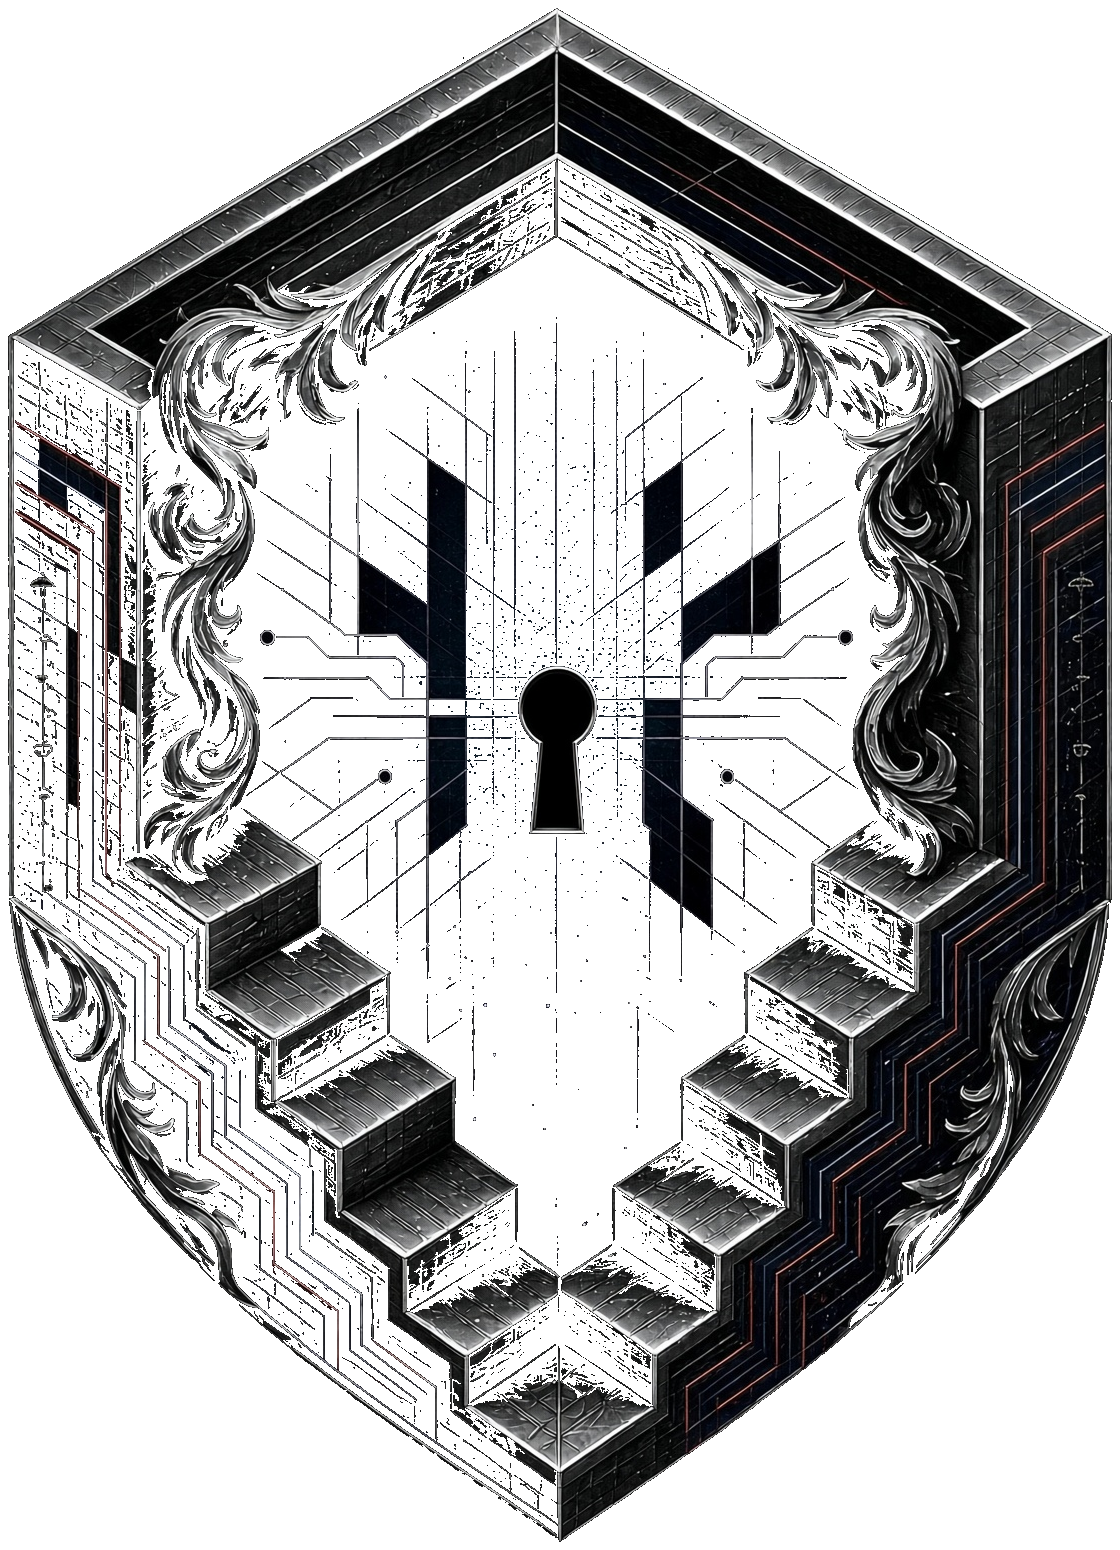
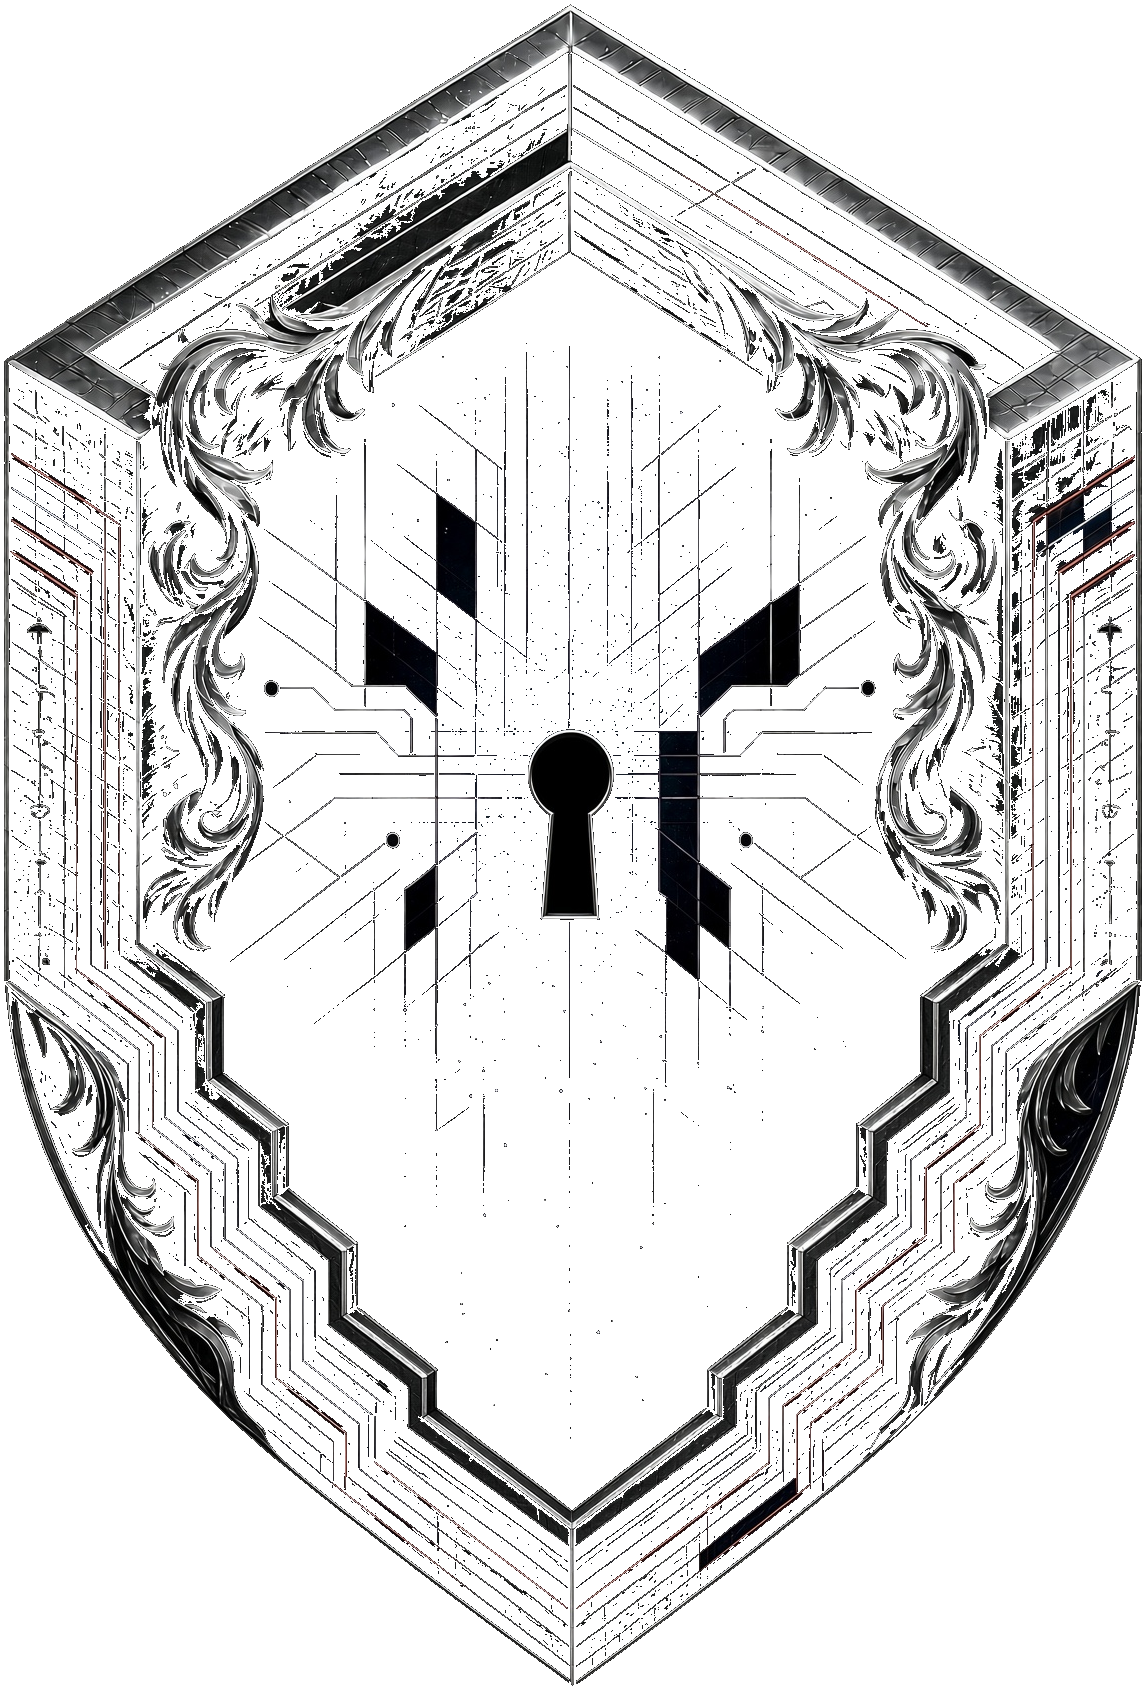
Face the lock straight on and center the key in the keyhole.

diff --git a/intro.css b/intro.css
@@ -37,7 +37,7 @@
   position: relative;
   z-index: 1;
   width: 100%;
-  aspect-ratio: 1120 / 1550;
+  aspect-ratio: 1146 / 1690;
 }
 
 .skx-crest::after {
@@ -59,7 +59,7 @@
   position: absolute;
   width: 50%;
   height: 50%;
-  background-image: url("assets/intro-lock.webp?v=13");
+  background-image: url("assets/intro-lock.webp?v=14");
   background-repeat: no-repeat;
   background-size: 200% 200%;
   pointer-events: none;
@@ -86,8 +86,8 @@
   z-index: 5;
   width: 52%;
   height: auto;
-  left: 50%;
-  top: 44.8%;
+  left: 51.3%;
+  top: 46.2%;
   transform-origin: 50% 50.5%;
   transform: translate(-50%, -50.5%);
   pointer-events: none;

diff --git a/index.html b/index.html
@@ -138,7 +138,7 @@
       var key = new Image();
       watch(preload);
       watch(key);
-      preload.src = "assets/intro-lock.webp?v=13";
+      preload.src = "assets/intro-lock.webp?v=14";
       key.src = "assets/intro-key.webp?v=13";
       function done(e) {
         if (e && (e.target !== root || e.animationName !== "skx-out")) return;
